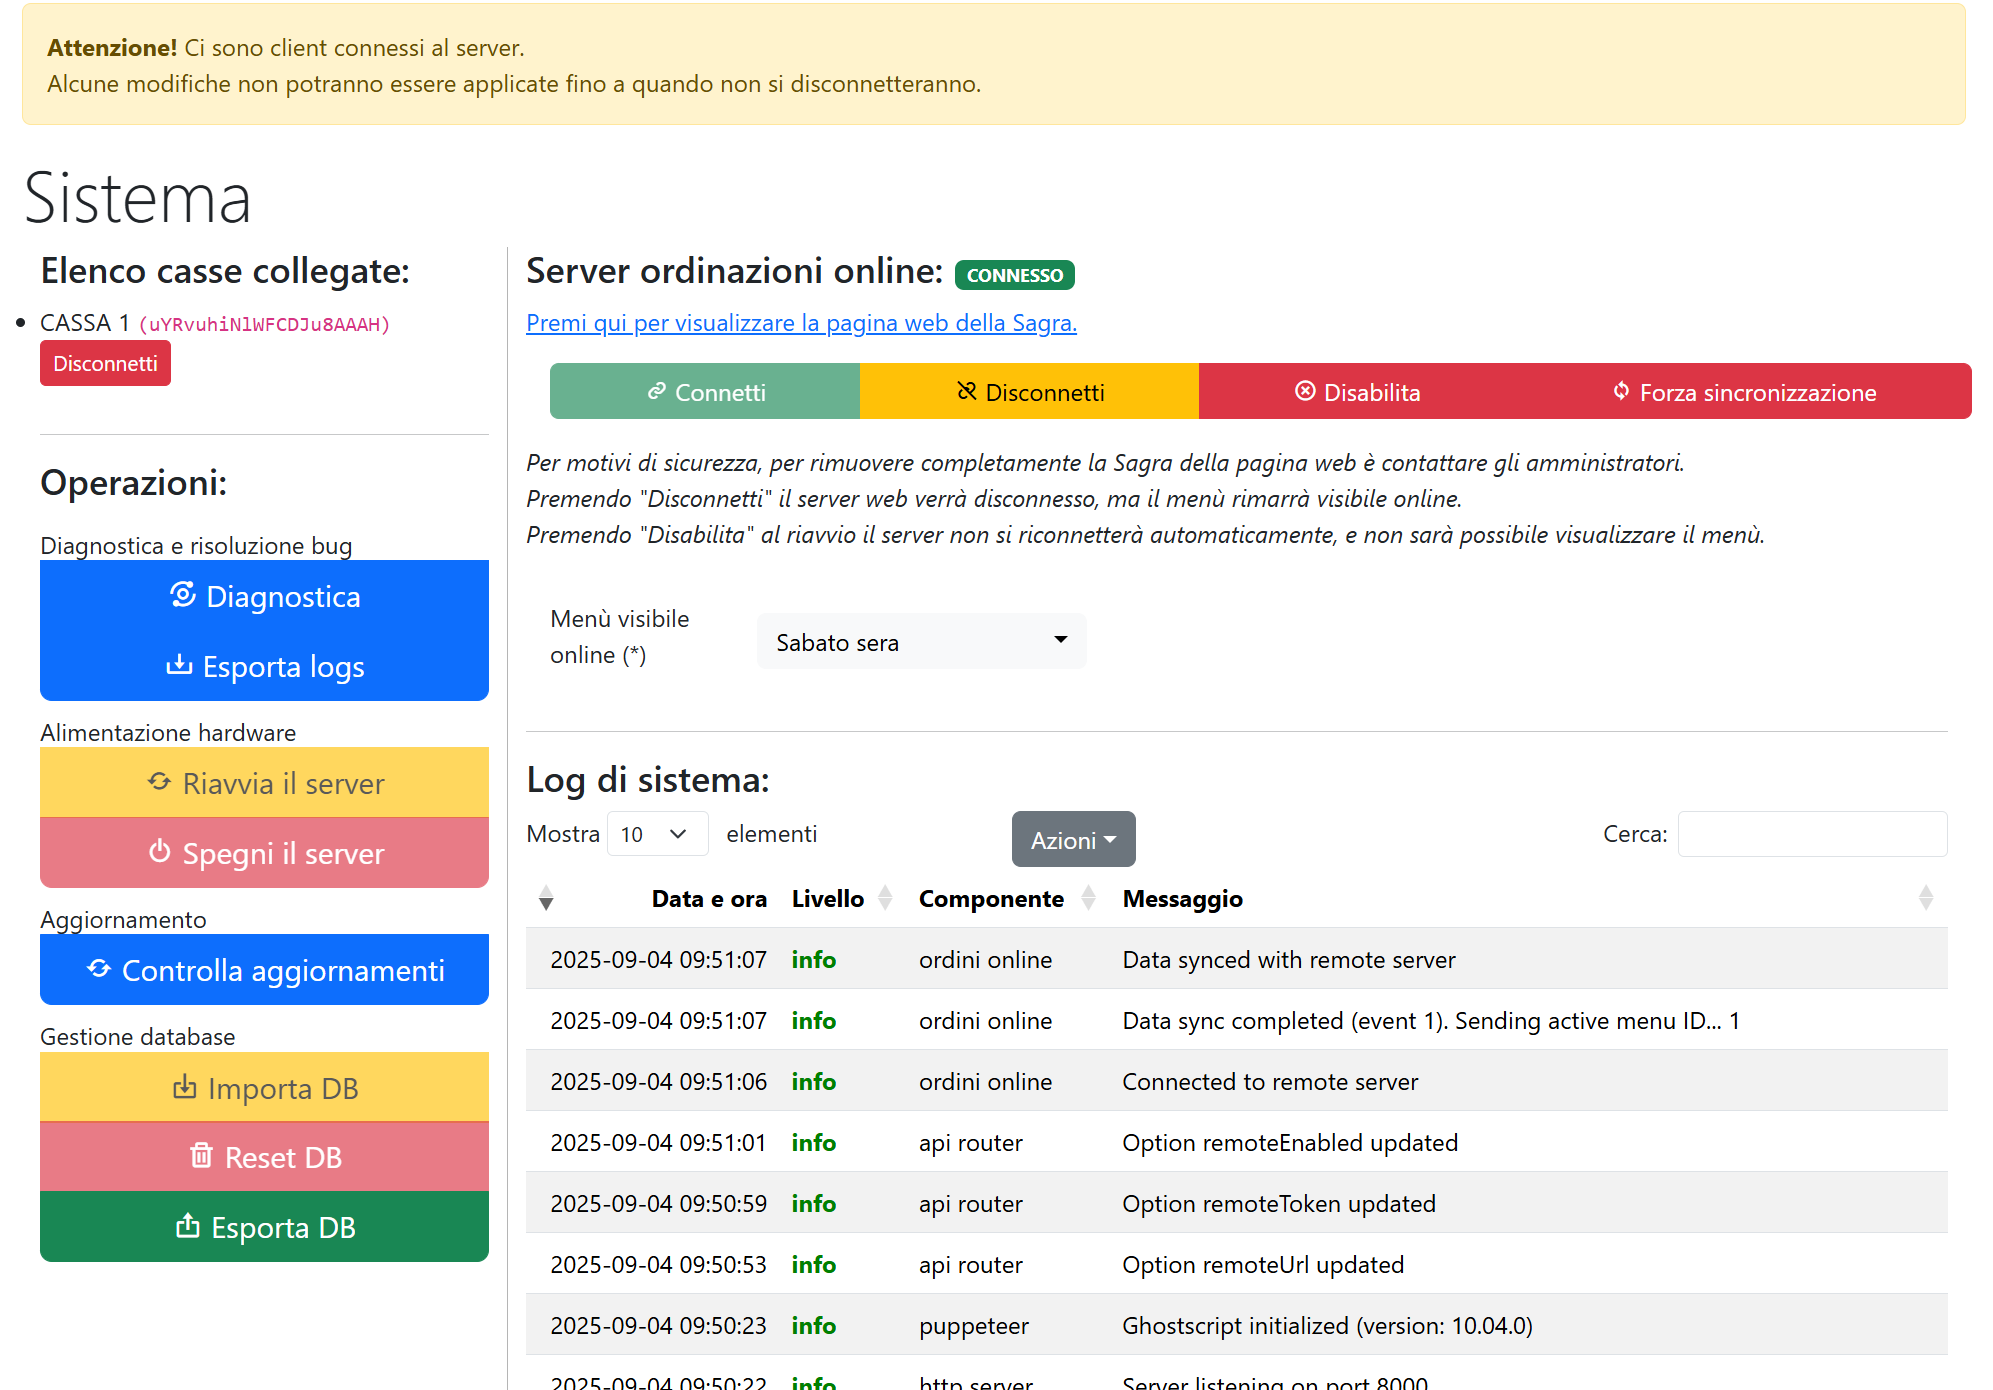
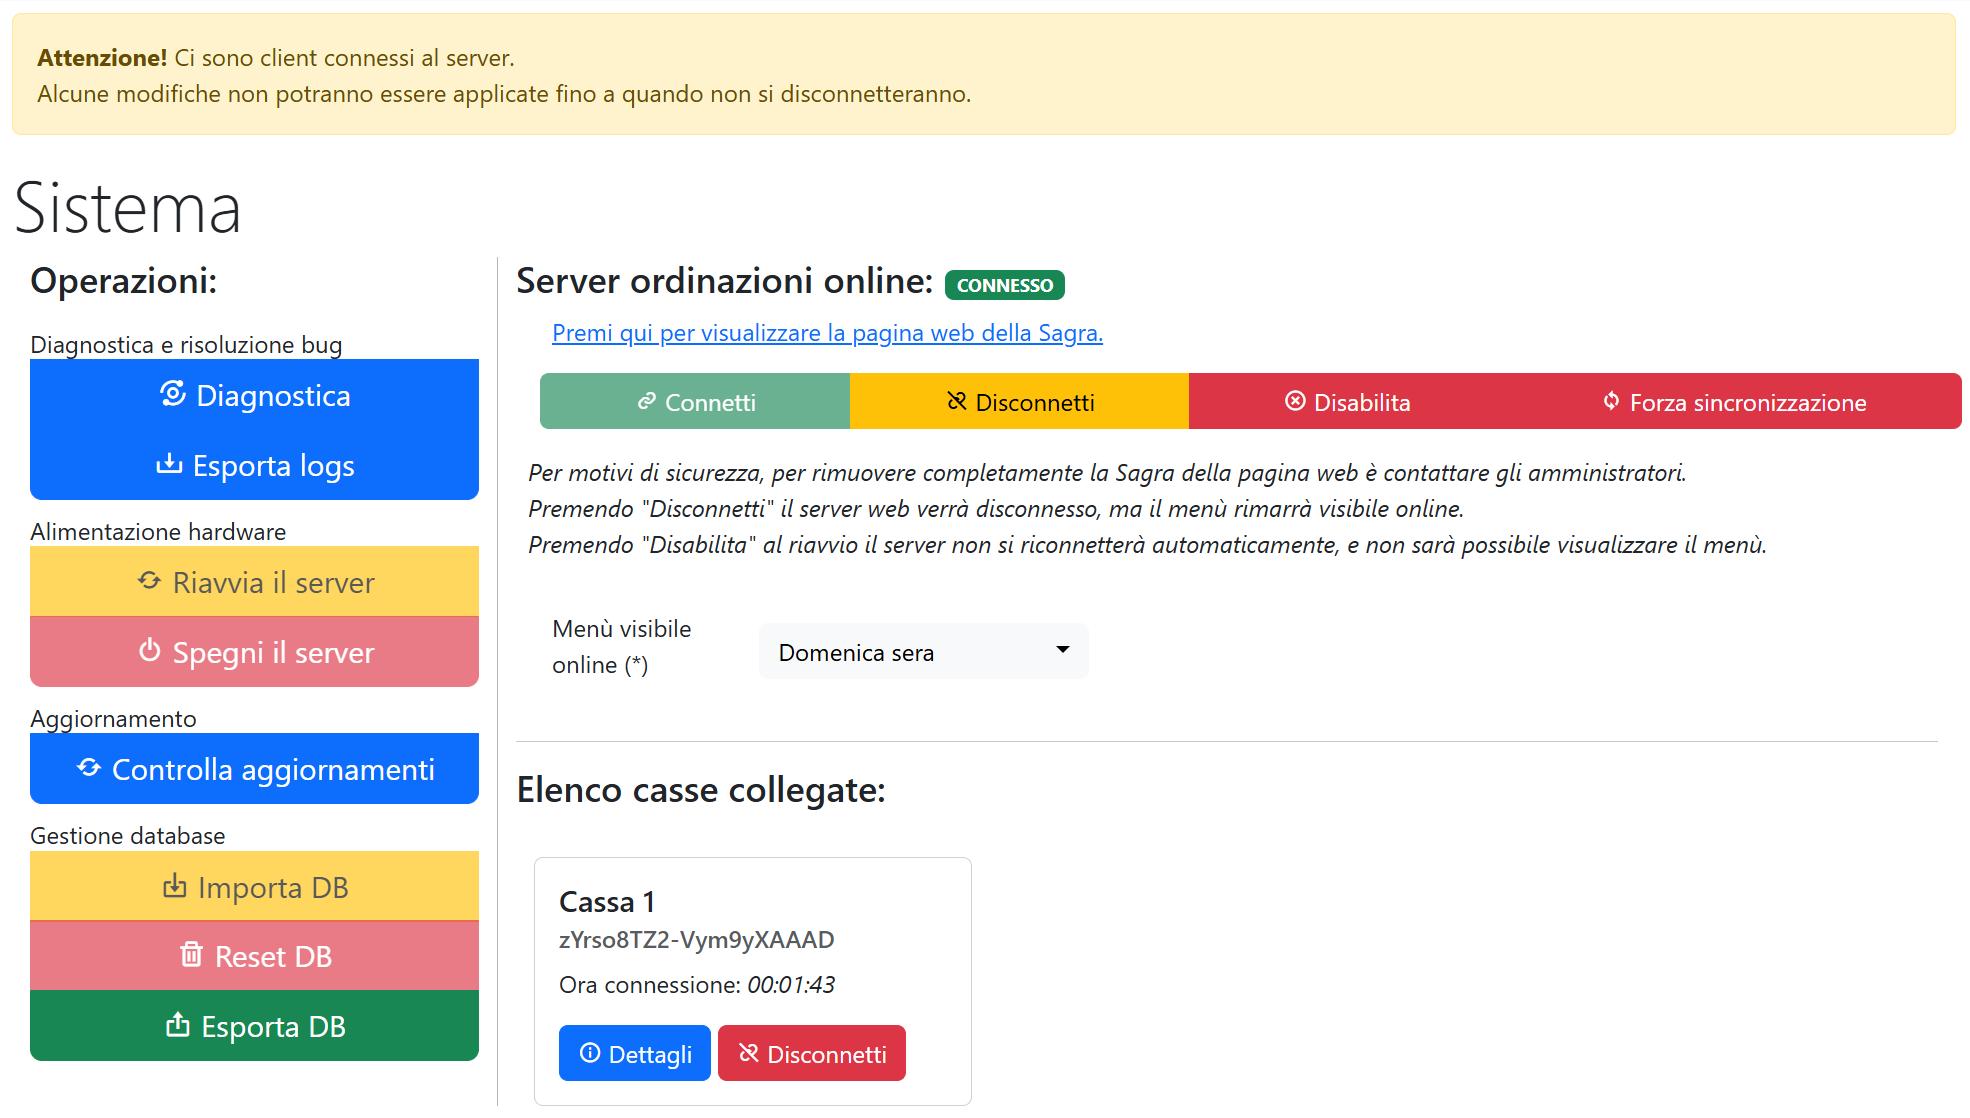
Update docs with new /system interface

diff --git a/docs/server/amministrazione.md b/docs/server/amministrazione.md
@@ -10,7 +10,10 @@ In questa pagina, è possibile visualizzare le informazioni di diagnostica e mod
 Se i client di cassa sono accesi e collegati alla rete locale, in questa sezione verranno mostrati in un'apposita lista.
 ![](/img/server/system_clients_connected.png)  
 Premendo l'apposito pulsante `Disconnetti`, è possibile disconnettere forzatamente un client di cassa dalla rete locale.  
-![](/img/server/system_disconnect_client.png)
+
+import ClientDisconnect from '/img/server/system_disconnect_client.png';
+
+<img src={ClientDisconnect} width="400" />
 :::tip
 Se è necessario svolgere modifiche veloci ai prodotti, alle categorie o utilizzare altre funzionalità che vengono disabilitate quando le casse sono connesse al server, è possibile disconnettere forzatamente tutti i client di cassa per poter svolgere le modifiche necessarie.
 :::
